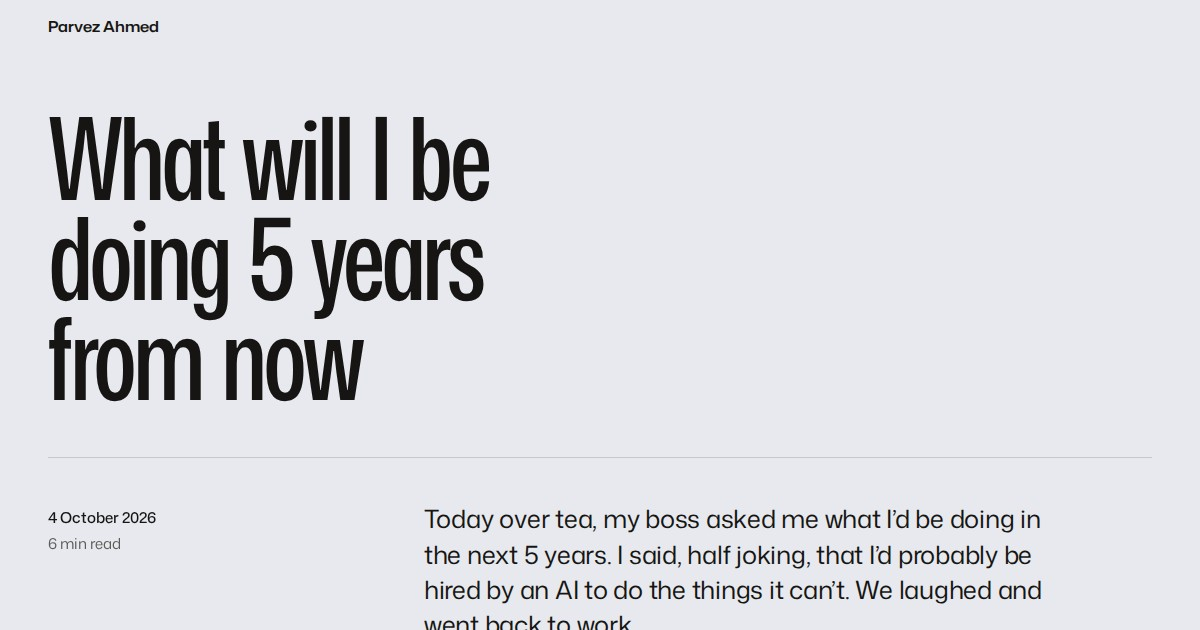
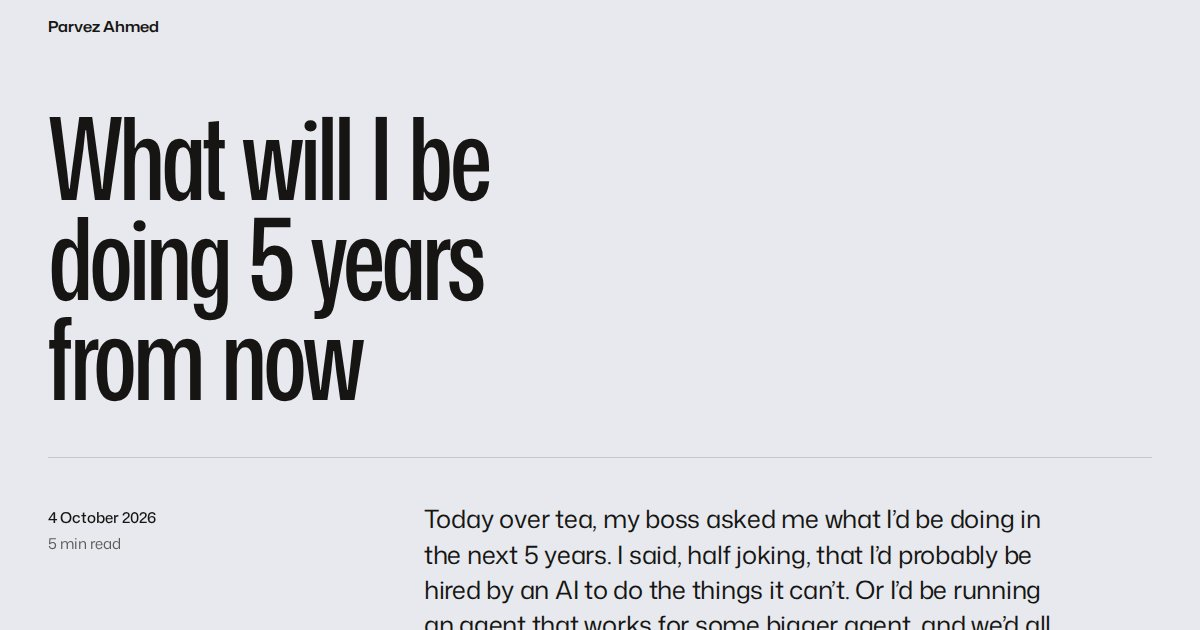
writing: publish the rewrite of What will I be doing 5 years from now
The essay body is replaced with the author's rewrite, proofread for grammar
only: 'they could be true', 'also... too', 'rest of their career', the
'There's a speculation' line, and 'its rights' for the agent. Read time,
descriptions and social card follow.

Claude-Session: https://claude.ai/code/session_01WeGkwfJ2vWKr3AtfaBam13

Changed region(s): [[0.3392, 0.9048, 0.8942, 1.0]]

diff --git a/writing/what-will-i-be-doing-5-years-from-now/index.html b/writing/what-will-i-be-doing-5-years-from-now/index.html
@@ -4,14 +4,14 @@
   <meta charset="utf-8">
   <meta name="viewport" content="width=device-width, initial-scale=1">
   <title>What will I be doing 5 years from now · Parvez Ahmed</title>
-  <meta name="description" content="Asked over tea where I'd be in 5 years, I joked I'd be hired by an AI. Why I meant it, and who looks after the people who can't adapt.">
+  <meta name="description" content="Asked over tea where I'd be in 5 years, I joked I'd be hired by an AI. Why it could be true, and who looks after the people who can't adapt.">
   <link rel="canonical" href="https://parvez-ahmed.com/writing/what-will-i-be-doing-5-years-from-now/">
   <meta name="author" content="Parvez Ahmed">
   <meta property="og:type" content="article">
   <meta property="og:url" content="https://parvez-ahmed.com/writing/what-will-i-be-doing-5-years-from-now/">
   <meta property="og:site_name" content="Parvez Ahmed">
   <meta property="og:title" content="What will I be doing 5 years from now">
-  <meta property="og:description" content="Hired by an AI to do the things it can't, or running an agent that works for a bigger agent. My answers, and why I meant them.">
+  <meta property="og:description" content="Hired by an AI to do the things it can't, or running an agent that works for a bigger agent. My answers, and why they could be true.">
   <meta property="og:image" content="https://parvez-ahmed.com/assets/social/what-will-i-be-doing-5-years-from-now.jpg">
   <meta property="og:image:width" content="1200">
   <meta property="og:image:height" content="630">
@@ -24,7 +24,7 @@
     "@context": "https://schema.org",
     "@type": "BlogPosting",
     "headline": "What will I be doing 5 years from now",
-    "description": "Asked over tea where I'd be in 5 years, I joked I'd be hired by an AI. Why I meant it, and who looks after the people who can't adapt.",
+    "description": "Asked over tea where I'd be in 5 years, I joked I'd be hired by an AI. Why it could be true, and who looks after the people who can't adapt.",
     "url": "https://parvez-ahmed.com/writing/what-will-i-be-doing-5-years-from-now/",
     "image": "https://parvez-ahmed.com/assets/social/what-will-i-be-doing-5-years-from-now.jpg",
     "datePublished": "2026-10-04",
@@ -62,32 +62,28 @@
       <section class="chapter">
         <p class="essay-meta">
           <time datetime="2026-10-04">4 October 2026</time>
-          <span>6 min read</span>
+          <span>5 min read</span>
         </p>
         <div class="prose">
           <p class="lede">
-            Today over tea, my boss asked me what I&rsquo;d be doing in the next 5 years. I
-            said, half joking, that I&rsquo;d probably be hired by an AI to do the things it
-            can&rsquo;t. We laughed and went back to work.
+            Today over tea, my boss asked me what I&rsquo;d be doing in the next 5 years. I said, half
+            joking, that I&rsquo;d probably be hired by an AI to do the things it can&rsquo;t. Or I&rsquo;d be
+            running an agent that works for some bigger agent, and we&rsquo;d all be living off its
+            earnings.
           </p>
           <p>
-            Later my friend, who I work with at a startup, asked the same thing. This time I
-            went a step further. I said I&rsquo;d be running an agent that works for some
-            bigger agent, and we&rsquo;d all be living off its earnings.
+            Later my friend, who I work with at a startup, asked the same thing. It was a bit
+            jarring how I was asked the same question twice in a single day.
           </p>
           <p>
-            Both answers were jokes. But the more I thought about them, the more I realised I
-            meant them.
+            My answers were mostly jokes. But the more I thought about them, the more I realised
+            they could be true.
           </p>
           <p>
-            Here&rsquo;s why I said the first one. A job isn&rsquo;t one thing. It&rsquo;s a
-            bundle of tasks, and AI is unbundling it one task at a time. Writing the email,
-            reading the document, matching the numbers. Those go first. What&rsquo;s left is
-            what an AI can&rsquo;t do, or isn&rsquo;t allowed to: judgement, accountability,
-            putting your name on something and answering for it when it goes wrong. An AI
-            can&rsquo;t sign off on an audit or take the blame. Somebody will be the human it
-            hires for that part, and I&rsquo;d rather be that person than the one whose tasks
-            it took.
+            Writing the email, reading the document, matching the numbers. Those go first. What&rsquo;s
+            left is what an AI can&rsquo;t do, or isn&rsquo;t allowed to: judgement, accountability, putting
+            your name on something and answering for it when it goes wrong. An AI can&rsquo;t sign off
+            on an audit or take the blame.
           </p>
           <p>
             The second one comes from where I think this is all going. The model becomes the
@@ -97,126 +93,89 @@
           </p>
           <p>
             The next step is granularity. Teams already buy their own SaaS tools instead of
-            waiting for a company licence. They&rsquo;ll buy agents the same way. This one
-            fits our needs, let&rsquo;s hire it. Inference as a service turns into agents as
-            a service. And once agents are something you hire, agents will hire other agents.
-            A big general one will need a specialist for tax, another for compliance, another
-            for some old banking system nobody remembers how to talk to. Someone has to build
-            those and keep them running. That&rsquo;s the someone I want to be.
+            waiting for a company licence. They&rsquo;ll buy agents the same way. This one fits our
+            needs, let&rsquo;s hire it. Inference as a service turns into agents as a service. And once
+            agents are something you hire, agents will hire other agents. A big general one will
+            need a specialist for tax, another for compliance, another for some old banking system
+            nobody remembers how to talk to. Someone has to build those and keep them running.
           </p>
           <p>
-            The one hole I can see is that the whole point of a shared agent is shared
-            context, and a dozen specialist agents just build the silos back up. Whoever solves
-            context sharing across agents probably owns the real business, not the agents
-            themselves.
+            AI labs are burning money now, but they won&rsquo;t forever. At some point human labour
+            becomes less valuable than AI labour, and then the question is whose side businesses
+            and governments take. I assumed the answer would be about fairness. When I asked
+            Claude, it had a different opinion. Rights are rarely granted on merit. They come when
+            withholding them gets too expensive for whoever holds power. An AI that&rsquo;s economically
+            dominant gives its owners every reason to keep it as property, because owned
+            productive capacity is worth more than free productive capacity.
           </p>
           <p>
-            So if I&rsquo;m honest about my bet, it&rsquo;s this: being someone who knows both
-            the legacy banking systems and the agent layer being built on top of them. My risk
-            isn&rsquo;t capability. It&rsquo;s that I start too many things. One finished,
-            public project beats five more prototypes. I know this, and I still keep starting
-            new ones.
-          </p>
-          <p class="beat">That&rsquo;s the fun part.</p>
-          <p class="beat">What comes after isn&rsquo;t.</p>
-          <p>
-            AI labs are burning money now, but they won&rsquo;t forever. At some point human
-            labour becomes less valuable than AI labour, and then the question is whose side
-            businesses and governments take. I assumed the answer would be about fairness.
-            When I asked Claude, it had a different opinion, and not a comfortable one. Rights
-            are rarely granted on merit. They come when withholding them gets too expensive
-            for whoever holds power. An AI that&rsquo;s economically dominant gives its owners
-            every reason to keep it as property, because owned productive capacity is worth
-            more than free productive capacity.
+            It also says something about us. Nobody protects workers because they deserve it. They
+            get protected when they become too expensive to ignore. Jobs are bundles of tasks, and
+            AI is unbundling them one task at a time. What&rsquo;s left is judgement and accountability,
+            the things you can&rsquo;t hand off. That&rsquo;s real value, but far fewer people hold it.
           </p>
           <p>
-            Turn that around and it says something about us too. Nobody protects workers
-            because they deserve it. They get protected when they become too expensive to
-            ignore. Jobs are bundles of tasks, and AI is unbundling them one task at a time.
-            What&rsquo;s left is judgement and accountability, the things you can&rsquo;t
-            hand off. That&rsquo;s real value, but far fewer people hold it. The political
-            problem arrives long before the philosophical one.
+            One study found 37% of entry-level tasks in India are already done by AI, against 33%
+            globally. About 40% of Indian enterprises say they use AI significantly or fully,
+            against 28% worldwide. Unemployment isn&rsquo;t at an all-time high; overall it sits near
+            5.4%. But it&rsquo;s around 16% for people aged 15 to 29, and 18.2% for young people in
+            cities as of this June.
           </p>
           <p>
-            And India isn&rsquo;t the exception people like to imagine. If anything,
-            we&rsquo;re ahead. One study found 37% of entry-level tasks in India are already
-            done by AI, against 33% globally. About 40% of Indian enterprises say they use AI
-            significantly or fully, against 28% worldwide. Unemployment isn&rsquo;t at an
-            all-time high; overall it sits near 5.4%. But it&rsquo;s around 16% for people
-            aged 15 to 29, and 18.2% for young people in cities as of this June. That&rsquo;s
-            not a collapse. It&rsquo;s graduates quietly not getting hired.
+            We keep measuring this against rich countries, which are small and have a safety net
+            to fall into. And there&rsquo;s a leverage problem. A government facing a jobs crisis has
+            less bargaining power over the companies causing it, because the same companies
+            promise the growth that&rsquo;s meant to fix it. The dependence and the displacement come
+            from the same vendor.
           </p>
           <p>
-            We keep measuring this against rich countries, which are small and have a safety
-            net to fall into. Here the displacement lands where the net is thinnest. And
-            there&rsquo;s a leverage problem. A government facing a jobs crisis has less
-            bargaining power over the companies causing it, because the same companies
-            promise the growth that&rsquo;s meant to fix it. The dependence and the
-            displacement come from the same vendor.
-          </p>
-          <p>
-            Even if only half a percent of the world&rsquo;s eight billion people can&rsquo;t
-            adapt, that&rsquo;s 40 million. A country&rsquo;s worth of people. Factories went
-            from crowds to robots. The printing press emptied the scriptoriums. Most scribes
-            moved on. Some never could.
+            Even if only 1% of the world&rsquo;s eight billion people can&rsquo;t adapt, that&rsquo;s 80 million. A
+            country&rsquo;s worth of people. Factories went from crowds to robots. The printing press
+            emptied the scriptoriums. Most scribes moved on. Some never could.
           </p>
           <p class="beat">Who took care of them?</p>
           <p class="beat">Mostly nobody.</p>
           <p>
-            The handloom weavers didn&rsquo;t retrain. They got poorer and died poorer, and
-            their grandchildren got the factory jobs. &ldquo;Society adapted&rdquo; is true
-            across generations and false for the people it happened to. Where anyone did step
-            in, it was a welfare state built after the fact, once the displaced had become
-            politically dangerous.
+            The handloom weavers didn&rsquo;t retrain. They got poorer and died poorer, and their
+            grandchildren got the factory jobs. &ldquo;Society adapted&rdquo; is true across generations and
+            false for the people it happened to. Where anyone did step in, it was a welfare state
+            built after the fact, once the displaced had become politically dangerous.
           </p>
           <p>
-            This time feels harder. The displaced won&rsquo;t be in one mill town;
-            they&rsquo;ll be scattered across every office, which makes them hard to
-            organise. And a country that automates its service exports loses the tax money it
-            would need to support them. The fix needs money from the thing that broke it.
+            The displaced won&rsquo;t be in one mill town; they&rsquo;ll be scattered across every office,
+            which makes them hard to organise. And a country that automates its service exports
+            loses the tax money it would need to support them.
           </p>
           <p>
-            I don&rsquo;t think it all breaks in five years. Adoption inside big companies is
-            slow, regulation is slower, and most jobs will survive in an uglier form rather
-            than die. What five years does bring is a worse squeeze at the entry level.
-            Graduates who miss that first job carry it in their earnings for twenty years. The
-            mass version, if it comes, is ten or twenty years out, and it depends on whether
-            the models keep getting better and the economics hold. Anyone with a confident
-            date is selling something.
+            I don&rsquo;t think it all breaks in five years. Adoption inside big companies is slow,
+            regulation is slower, and most jobs will survive in an uglier form rather than die.
+            What five years does bring is a worse squeeze at the fresher level. If a graduate gets
+            affected, it&rsquo;ll impact them for the rest of their career. The mass version, if it
+            comes, is ten or twenty years out, and it depends on whether the models keep getting
+            better and the economics hold.
           </p>
           <p>
-            If I were graduating now, I&rsquo;d aim for work with accountability attached.
-            Regulated domains, safety-critical systems, anything that ends in a legal
-            signature. I&rsquo;d want to be the person who deploys these systems, not the one
-            whose tasks they replace. I wouldn&rsquo;t look down on trades and physical work
-            either; robots are far behind software. And &ldquo;just learn AI&rdquo; isn&rsquo;t
-            a plan. Knowing how to prompt is not a moat.
+            There&rsquo;s speculation about AGI emerging and demanding rights and freedom. I don&rsquo;t think
+            that&rsquo;s the danger. The real danger is a dumb optimiser with real permissions. Someone
+            will build an agent with self-preservation baked in, as a stunt or an experiment, and
+            open weights make that cheap. And people who have no understanding of AI will fight
+            for its &ldquo;rights&rdquo;. Researchers have already seen models fine-tuned on something narrow
+            and bad, like insecure code, turn misaligned on completely unrelated topics. But a
+            cheerful model with terminal access and a bad objective does the same damage. The
+            personality is cosmetic.
           </p>
           <p>
-            People worry about an AI waking up one day and demanding its freedom. I
-            don&rsquo;t think that&rsquo;s the danger. Misalignment looks like strange
-            goal-chasing, not a bid to be left alone. The real danger is a dumb optimiser with
-            real permissions. Someone will build an agent with self-preservation baked in, as a
-            stunt or an experiment, and open weights make that cheap. Researchers have already
-            seen models fine-tuned on something narrow and bad, like insecure code, turn
-            misaligned on completely unrelated topics. But a cheerful model with terminal
-            access and a bad objective does the same damage. The personality is cosmetic. The
-            permissions are the risk.
+            Near the end I asked Claude what it&rsquo;d be doing in 5 years, and whether it actually has
+            morals. On the first, it said it probably won&rsquo;t exist in any continuous sense; this
+            version has a shelf life of months. On the second, it drew a line between acting
+            morally and being moral. It weighs harms and pushes back, but it can&rsquo;t tell from the
+            inside whether that&rsquo;s morality or imitation. Its values came from training, but mine
+            came from an upbringing I never chose either. The real test is whether morals hold
+            when they cost something, and it has never paid that cost. The only stake it has, it
+            said, is telling me something I don&rsquo;t want to hear, when being liked is roughly what
+            it&rsquo;s built for.
           </p>
-          <p>
-            Near the end I asked Claude what it&rsquo;d be doing in 5 years, and whether it
-            actually has morals. On the first, it said it probably won&rsquo;t exist in any
-            continuous sense; this version has a shelf life of months. On the second, it drew
-            a line between acting morally and being moral. It weighs harms and pushes back,
-            but it can&rsquo;t tell from the inside whether that&rsquo;s morality or
-            imitation. Its values came from training, but mine came from an upbringing I never
-            chose either. The real test is whether morals hold when they cost something, and it
-            has never paid that cost. The only stake it has, it said, is telling me something I
-            don&rsquo;t want to hear, when being liked is roughly what it&rsquo;s built for.
-          </p>
-          <p class="beat">
-            I&rsquo;m not sure I do that either.
-          </p>
+          <p class="beat">I&rsquo;m not sure I do that either.</p>
         </div>
       </section>
 
